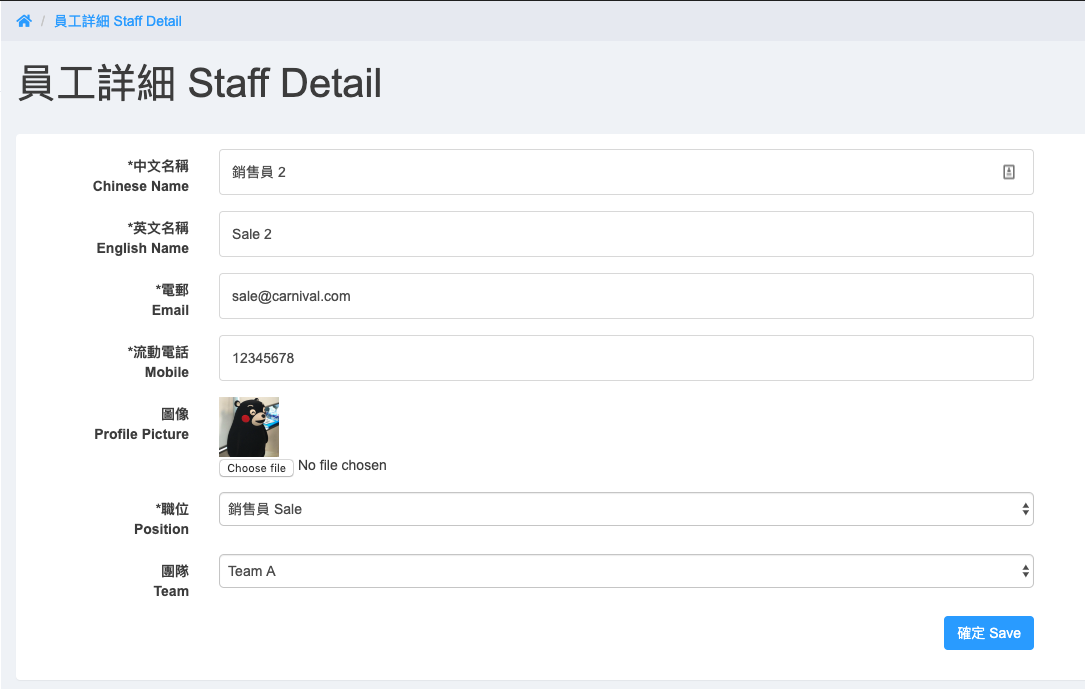
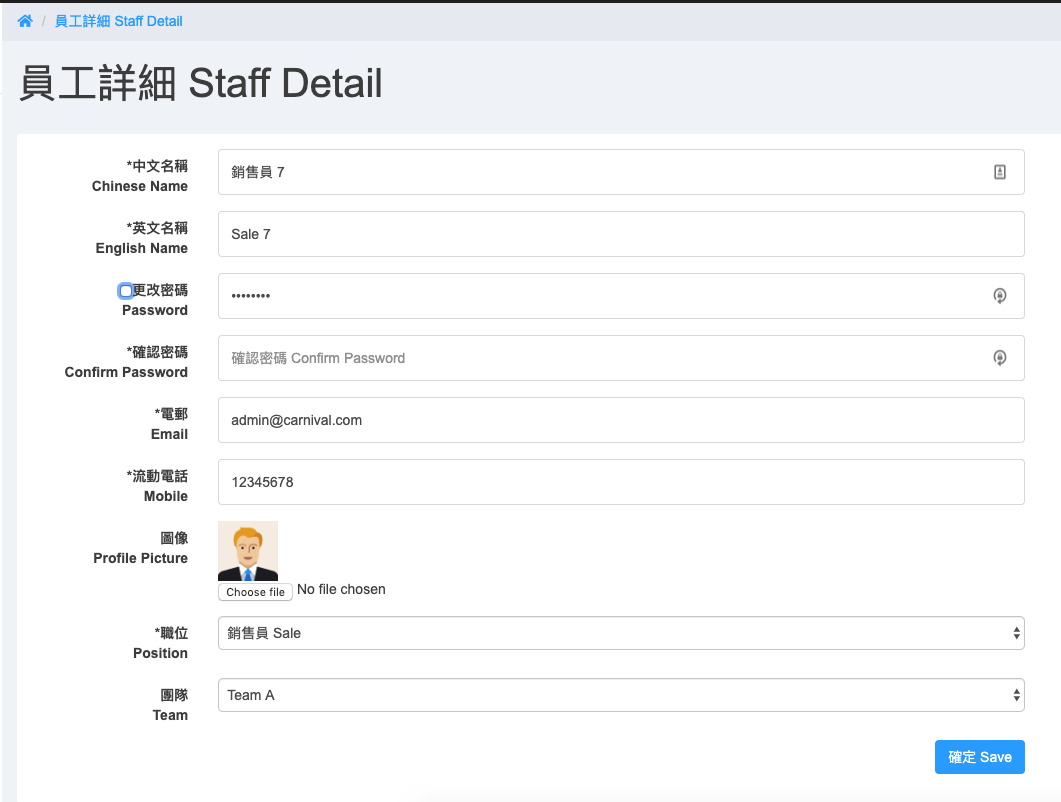
update

diff --git a/site/contract/index.html b/site/contract/index.html
@@ -66,6 +66,33 @@
     <li class="toctree-l2"><a href="#contract">Contract</a></li>
     
 
+    <li class="toctree-l2"><a href="#new-contract-new-client">New Contract &amp; New Client</a></li>
+    
+
+    <li class="toctree-l2"><a href="#contract-detail">Contract Detail</a></li>
+    
+
+    <li class="toctree-l2"><a href="#distribution-status">Distribution &amp; Status</a></li>
+    
+
+    <li class="toctree-l2"><a href="#interest-rate">Interest Rate</a></li>
+    
+
+    <li class="toctree-l2"><a href="#contract-information">Contract Information</a></li>
+    
+
+    <li class="toctree-l2"><a href="#deposit-slip">Deposit Slip</a></li>
+    
+
+    <li class="toctree-l2"><a href="#signed-contract">Signed Contract</a></li>
+    
+
+    <li class="toctree-l2"><a href="#interet-distribution">Interet distribution</a></li>
+    
+
+    <li class="toctree-l2"><a href="#dividen-interest">Dividen Interest</a></li>
+    
+
     </ul>
 	    </li>
           
@@ -102,6 +129,61 @@
             <div class="section">
               
                 <h1 id="contract">Contract</h1>
+<p>Side Menu -&gt; <code>合約 Contract</code> </p>
+<p><img alt="Screenshot" src="../images/contract1.png" />  </p>
+<h1 id="new-contract-new-client">New Contract &amp; New Client</h1>
+<p>Click <code>新合約 contract</code></p>
+<p><img alt="Screenshot" src="../images/contract2.png" /><br />
+Fill in the form</p>
+<pre><code>When Total Applicants more than 1, the account will be joint Account
+</code></pre>
+
+<pre><code>Fill dfifferent applicant by click the tab *第N申請人 N Applicant*
+</code></pre>
+
+<p><img alt="Screenshot" src="../images/contract3.png" />  </p>
+<pre><code>Click *複制第一申請人* to copy the first applicant address
+</code></pre>
+
+<p>Click <code>確定 Save</code>, after save successful, will return to contract detail page</p>
+<h1 id="contract-detail">Contract Detail</h1>
+<p>Select <code>詳細資料 Detail</code> in the contract list</p>
+<p><img alt="Screenshot" src="../images/contract4.png" />  </p>
+<pre><code>Click `客戶資料 Clients Detail` can go to the client detail page
+</code></pre>
+
+<h1 id="distribution-status">Distribution &amp; Status</h1>
+<p><img alt="Screenshot" src="../images/contract5.png" /><br />
+Change <code>派息期 Distribution</code> and <code>狀態 Status</code>, click <code>更新狀態 Update Status</code></p>
+<p><img alt="Screenshot" src="../images/contract8.png" /><br />
+Update the status, the <code>status</code> bar will be changed. Different status will trigger send different <code>email</code> and <code>sms</code></p>
+<pre><code>Internal link
+</code></pre>
+
+<h1 id="interest-rate">Interest Rate</h1>
+<p><img alt="Screenshot" src="../images/contract6.png" /><br />
+update the <code>利率 Interest Rate</code>, click <code>更新 Update</code> <br />
+update interest rate will re-calculate the interest</p>
+<h1 id="contract-information">Contract Information</h1>
+<p><img alt="Screenshot" src="../images/contract7.png" /><br />
+Click <code>top right arrow</code> can hide or show the contract information <br />
+Update the contract information, click <code>更新 Update</code></p>
+<h1 id="deposit-slip">Deposit Slip</h1>
+<p><img alt="Screenshot" src="../images/contract9.png" /><br />
+Click <code>top right arrow</code> can hide or show the Deposit Slip <br />
+Select the file of <code>Deposit slip</code> and enter the <code>Transfer Amount</code>, click <code>上載 Upload</code><br />
+After upload successful, click <code>檢視 Open</code> to view the <code>Deposit slip</code></p>
+<h1 id="signed-contract">Signed Contract</h1>
+<p><img alt="Screenshot" src="../images/contract10.png" /><br />
+Click <code>top right arrow</code> can hide or show the Signed Contract <br />
+Select the file of <code>signed contract</code>, click <code>上載 Upload</code><br />
+After upload successful, click <code>檢視 Open</code> to view the <code>Signed contract</code></p>
+<h1 id="interet-distribution">Interet distribution</h1>
+<p><img alt="Screenshot" src="../images/contract11.png" /><br />
+The total interest distribution must equal to 100. Each applicants have their own bank account inforamion <br />
+Click <code>確定 Save</code></p>
+<h1 id="dividen-interest">Dividen Interest</h1>
+<p><img alt="Screenshot" src="../images/contract12.png" />  </p>
               
             </div>
           </div>

diff --git a/site/user/index.html b/site/user/index.html
@@ -140,7 +140,8 @@ When the staff position is `Sales` please select the `Team`
 
 <h1 id="edit-staff-user">Edit Staff User</h1>
 <p>Click <code>詳細 Detail</code> in the right of the user list
-<img alt="Screenshot" src="../images/createUser4.png" />  </p>
+<img alt="Screenshot" src="../images/createUser4.png" /><br />
+Select <code>更改密碼 Password</code> to change the password  </p>
 <h1 id="access-right-checklist">Access Right CheckList</h1>
 <table>
 <thead>

diff --git a/site/index.html b/site/index.html
@@ -163,5 +163,5 @@
 
 <!--
 MkDocs version : 1.0.4
-Build Date UTC : 2019-06-03 14:01:12
+Build Date UTC : 2019-06-04 14:23:19
 -->

diff --git a/docs/contract.md b/docs/contract.md
@@ -1,1 +1,75 @@
 # Contract
+
+Side Menu -> `合約 Contract` 
+
+![Screenshot](images/contract1.png)  
+
+# New Contract & New Client
+Click `新合約 contract`
+
+![Screenshot](images/contract2.png)  
+Fill in the form
+
+```
+When Total Applicants more than 1, the account will be joint Account
+```
+
+```
+Fill dfifferent applicant by click the tab *第N申請人 N Applicant*
+```
+
+![Screenshot](images/contract3.png)  
+```
+Click *複制第一申請人* to copy the first applicant address
+```
+
+Click `確定 Save`, after save successful, will return to contract detail page
+
+#Contract Detail
+Select `詳細資料 Detail` in the contract list
+
+![Screenshot](images/contract4.png)  
+```
+Click `客戶資料 Clients Detail` can go to the client detail page
+```
+
+#Distribution & Status
+![Screenshot](images/contract5.png)  
+Change `派息期 Distribution` and `狀態 Status`, click `更新狀態 Update Status`
+
+![Screenshot](images/contract8.png)  
+Update the status, the `status` bar will be changed. Different status will trigger send different `email` and `sms`
+```
+Internal link
+```
+
+#Interest Rate
+![Screenshot](images/contract6.png)  
+update the `利率 Interest Rate`, click `更新 Update`   
+update interest rate will re-calculate the interest
+
+#Contract Information
+![Screenshot](images/contract7.png)  
+Click `top right arrow` can hide or show the contract information   
+Update the contract information, click `更新 Update`
+
+#Deposit Slip
+![Screenshot](images/contract9.png)  
+Click `top right arrow` can hide or show the Deposit Slip   
+Select the file of `Deposit slip` and enter the `Transfer Amount`, click `上載 Upload`  
+After upload successful, click `檢視 Open` to view the `Deposit slip`
+
+#Signed Contract
+![Screenshot](images/contract10.png)  
+Click `top right arrow` can hide or show the Signed Contract   
+Select the file of `signed contract`, click `上載 Upload`  
+After upload successful, click `檢視 Open` to view the `Signed contract`
+
+#Interet distribution
+![Screenshot](images/contract11.png)  
+The total interest distribution must equal to 100. Each applicants have their own bank account inforamion   
+Click `確定 Save`
+
+#Dividen Interest
+![Screenshot](images/contract12.png)  
+

diff --git a/docs/user.md b/docs/user.md
@@ -22,7 +22,7 @@ When the staff position is `Sales` please select the `Team`
 #Edit Staff User
 Click `詳細 Detail` in the right of the user list
 ![Screenshot](images/createUser4.png)  
-
+Select `更改密碼 Password` to change the password  
 
 #Access Right CheckList
 Function | Master | Supervisor | Customer Service | Sales
